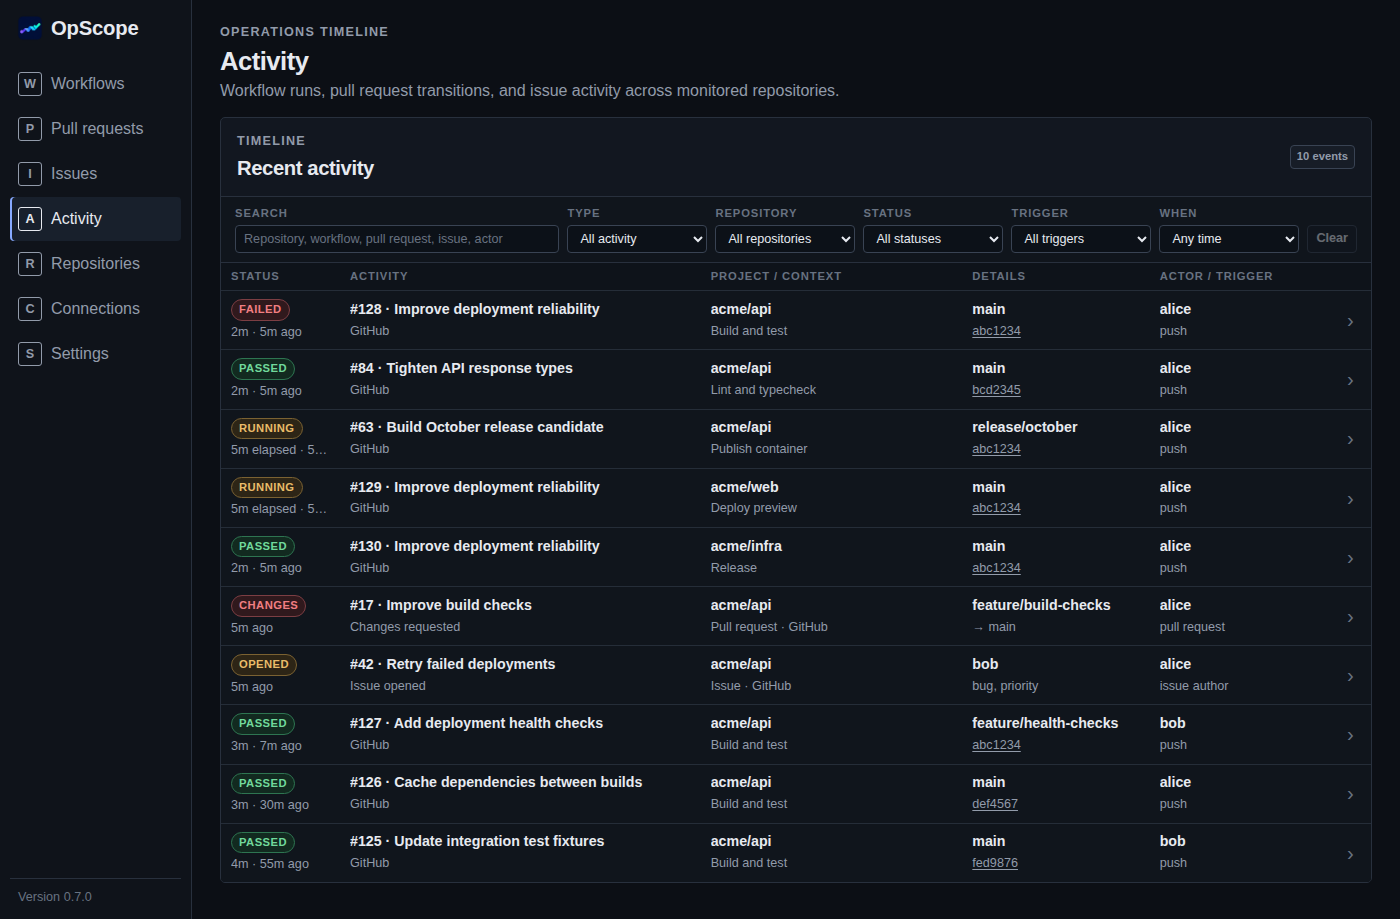
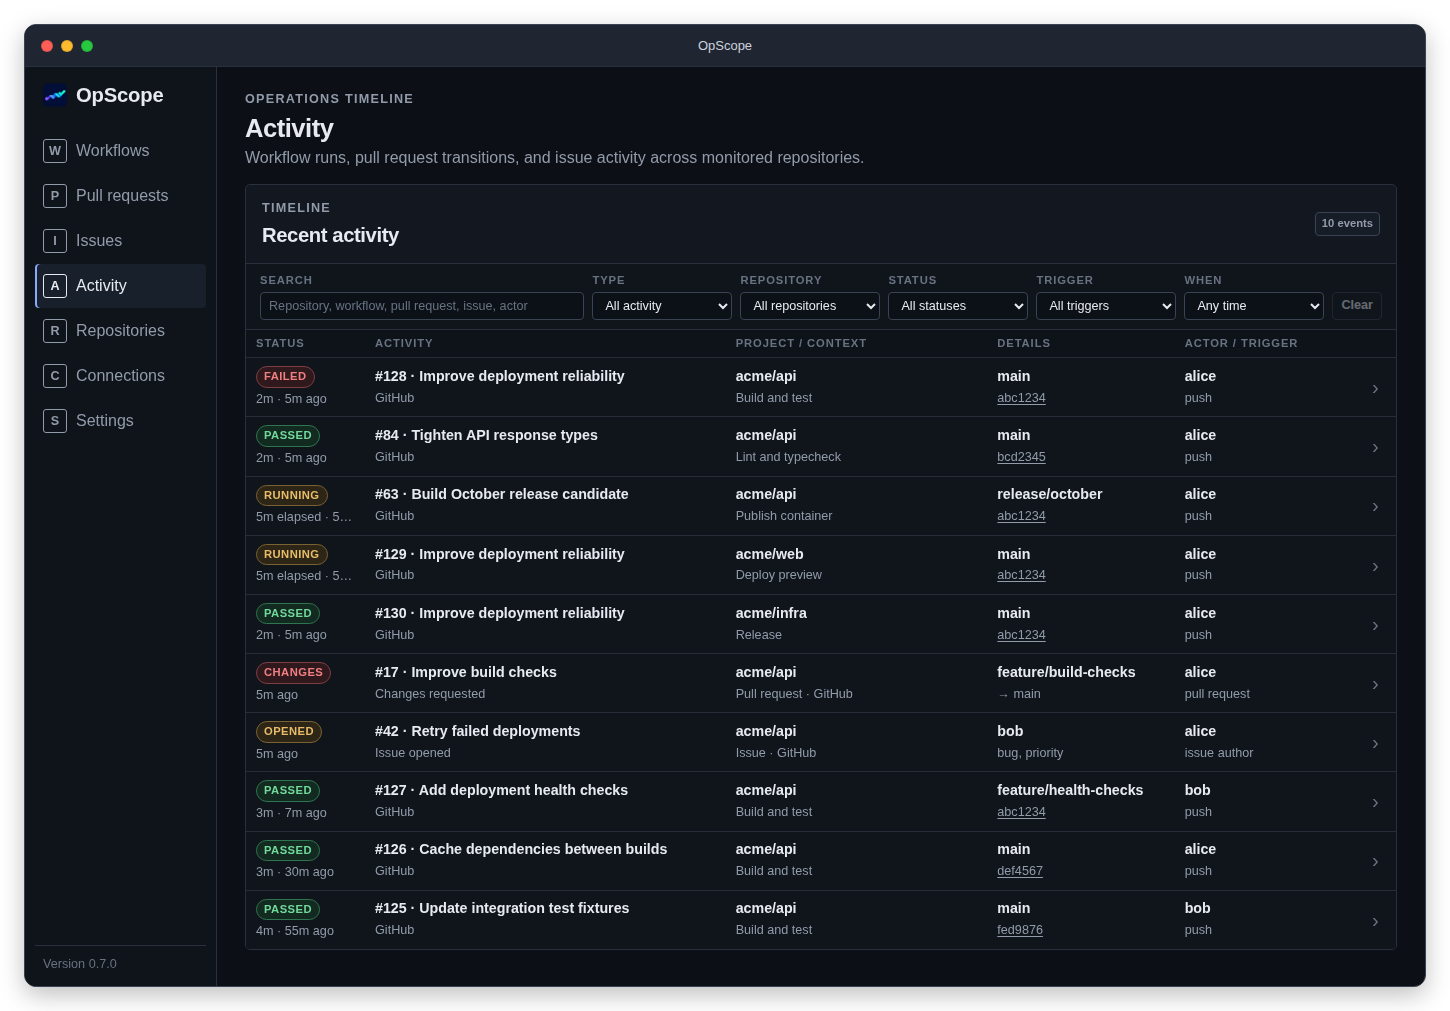
docs: frame screenshots and show supported platforms

Changed region(s): [[0.0, 0.0, 1.0, 1.0]]

diff --git a/scripts/take-screenshots.ts b/scripts/take-screenshots.ts
@@ -1,6 +1,55 @@
 import { mkdir } from "node:fs/promises";
+import type { Page } from "@playwright/test";
 import { test, prepareScreenshot } from "../e2e/fixtures";
 import { screens, openScreen } from "../e2e/screens";
+
+async function addWindowFrame(page: Page) {
+  const viewport = page.viewportSize()!;
+  await page.evaluate(
+    ({ width, height }) => {
+      const root = document.getElementById("root");
+      if (!root) throw new Error("Application root is missing");
+
+      document.documentElement.classList.add("documentation-screenshot");
+      document.body.classList.add("documentation-screenshot");
+      document.documentElement.style.setProperty(
+        "--screenshot-content-width",
+        `${width}px`,
+      );
+      document.documentElement.style.setProperty(
+        "--screenshot-content-height",
+        `${height}px`,
+      );
+
+      const frame = document.createElement("div");
+      frame.className = "screenshot-window";
+      const titlebar = document.createElement("div");
+      titlebar.className = "screenshot-titlebar";
+      titlebar.innerHTML = `
+      <div class="screenshot-controls" aria-hidden="true"><span></span><span></span><span></span></div>
+      <span class="screenshot-title">OpScope</span>
+    `;
+      root.before(frame);
+      frame.append(titlebar, root);
+    },
+    viewport,
+  );
+  await page.addStyleTag({ path: "scripts/screenshot-frame.css" });
+
+  const size = await page.locator(".screenshot-window").evaluate((element) => {
+    const bounds = element.getBoundingClientRect();
+    const body = getComputedStyle(document.body);
+    return {
+      width: Math.ceil(
+        bounds.width + parseFloat(body.paddingLeft) + parseFloat(body.paddingRight),
+      ),
+      height: Math.ceil(
+        bounds.height + parseFloat(body.paddingTop) + parseFloat(body.paddingBottom),
+      ),
+    };
+  });
+  await page.setViewportSize(size);
+}
 
 test("export README screenshots", async ({ page }) => {
   await mkdir("screenshots", { recursive: true });
@@ -13,10 +62,12 @@ test("export README screenshots", async ({ page }) => {
       .locator(".workspace")
       .evaluate((element) => element.scrollHeight);
     await page.setViewportSize({ width: 1400, height: Math.max(900, height) });
+    await addWindowFrame(page);
     await prepareScreenshot(page);
     await page.screenshot({
       path: `screenshots/${screen.name}.png`,
       fullPage: true,
+      omitBackground: true,
       animations: "disabled",
       caret: "hide",
     });

diff --git a/scripts/screenshot-frame.css b/scripts/screenshot-frame.css
@@ -1,0 +1,60 @@
+html.documentation-screenshot,
+body.documentation-screenshot {
+  background: transparent;
+}
+
+body.documentation-screenshot {
+  min-height: 0;
+  padding: 24px;
+}
+
+.documentation-screenshot .app-shell,
+.documentation-screenshot .sidebar,
+.documentation-screenshot .workspace {
+  height: var(--screenshot-content-height);
+}
+
+.screenshot-window {
+  width: calc(var(--screenshot-content-width) + 2px);
+  overflow: hidden;
+  border: 1px solid #394353;
+  border-radius: 12px;
+  background: #0c0f15;
+  box-shadow: 0 8px 24px #00000040;
+}
+
+.screenshot-titlebar {
+  display: grid;
+  grid-template-columns: 1fr auto 1fr;
+  align-items: center;
+  height: 42px;
+  padding: 0 16px;
+  border-bottom: 1px solid #28303d;
+  background: #202631;
+}
+
+.screenshot-controls {
+  display: flex;
+  gap: 8px;
+}
+
+.screenshot-controls span {
+  width: 12px;
+  height: 12px;
+  border: 1px solid #00000020;
+  border-radius: 50%;
+  background: #ff5f57;
+}
+
+.screenshot-controls span:nth-child(2) {
+  background: #febc2e;
+}
+
+.screenshot-controls span:nth-child(3) {
+  background: #28c840;
+}
+
+.screenshot-title {
+  color: #cbd2de;
+  font: 500 13px -apple-system, BlinkMacSystemFont, "Segoe UI", sans-serif;
+}

diff --git a/e2e/README.md b/e2e/README.md
@@ -72,7 +72,9 @@ npm run screenshots
 
 scripts/take-screenshots.ts shares fixtures, screen helpers, and rendering setup
 with the regression suite. It exports the four monitoring images referenced in the
-README to screenshots/. Review and commit them when the documented UI changes.
+README to screenshots/, with a macOS-style window frame and transparent padding.
+The frame styling lives in scripts/screenshot-frame.css. Review and commit the
+images when the documented UI changes.
 Documentation export never updates regression baselines; baseline updates never
 export documentation images. CI uploads the HTML report, image differences,
 traces and failure videos as ui-test-report.

diff --git a/README.md b/README.md
@@ -4,6 +4,12 @@
   <img src="assets/opscope-logo.png" alt="OpScope logo" width="256" height="256">
 </p>
 
+<p align="center">
+  <a href="#desktop"><img src="assets/platforms/macos.svg" alt="macOS: Apple Silicon and Intel"></a>
+  <a href="#desktop"><img src="assets/platforms/windows.svg" alt="Windows: x86-64"></a>
+  <a href="#desktop"><img src="assets/platforms/linux.svg" alt="Linux: x86-64"></a>
+</p>
+
 An operational dashboard for your repositories: see failing workflows, pull
 requests that need attention, and open issues in one place. Run it on your
 desktop or host it yourself.
